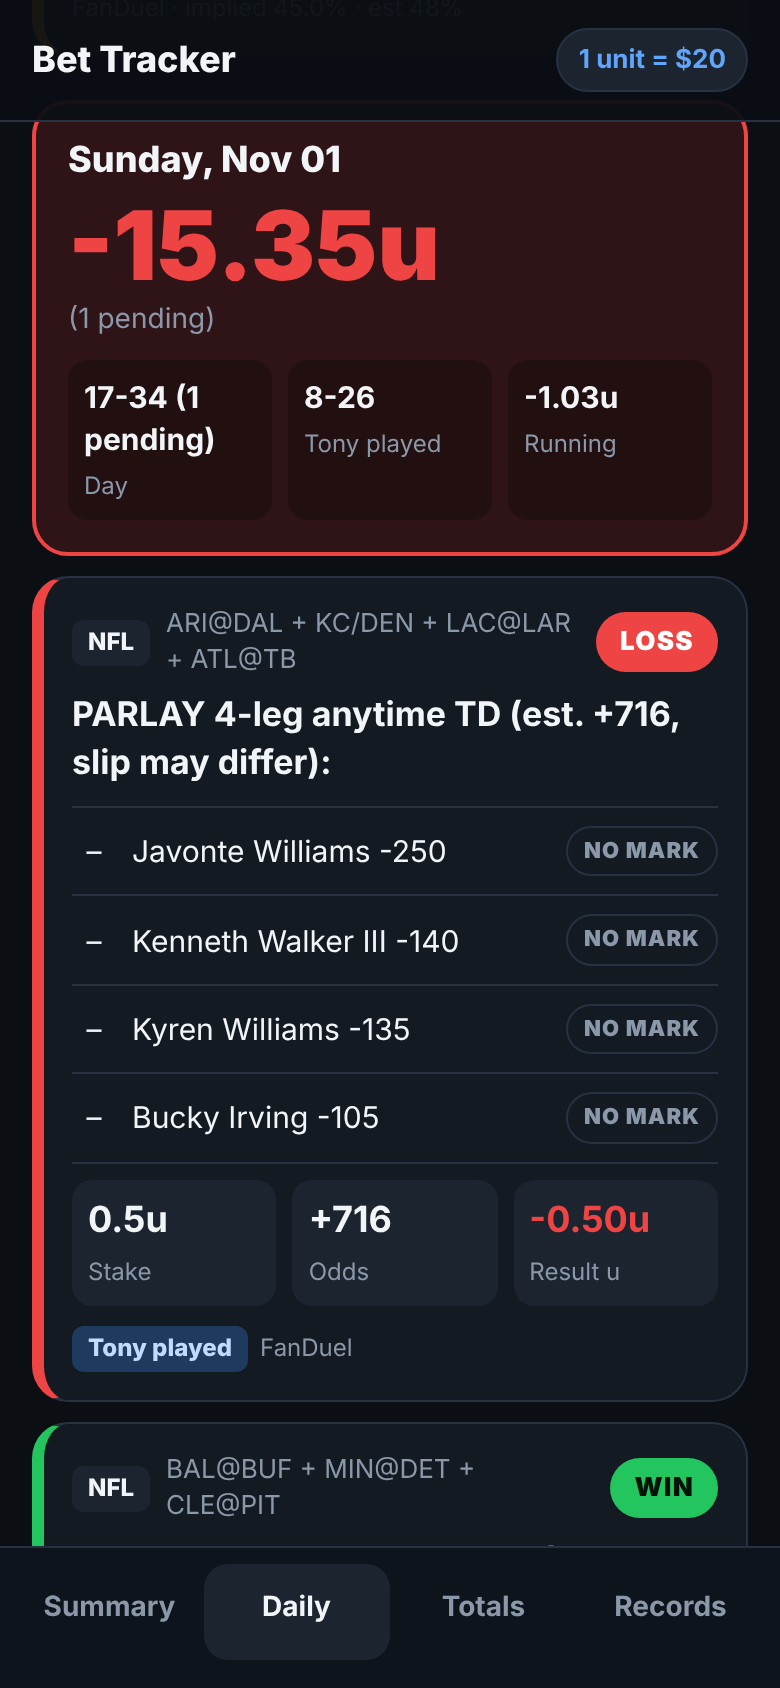
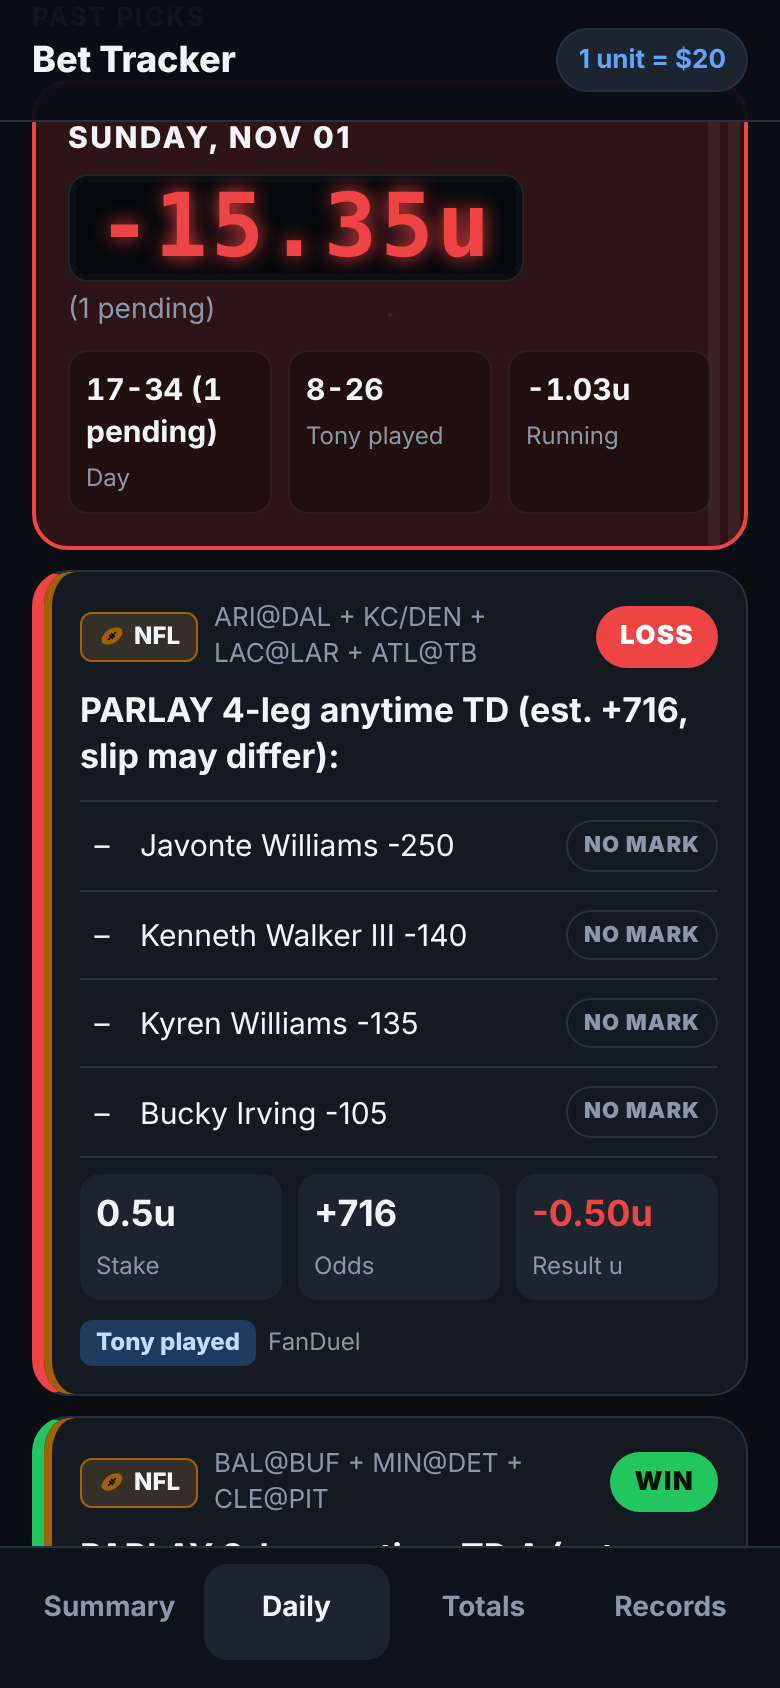
data: 2026-11-02 11:08

diff --git a/app.js b/app.js
@@ -5,6 +5,9 @@ const isNum=x=>typeof x==='number',fmt=x=>(x>=0?'+':'')+x.toFixed(2)+'u';
 const RES={W:['WIN','win'],L:['LOSS','loss'],void:['VOID','push'],P:['PUSH','push'],'':['PENDING','pend']};
 const LEG={hit:['WIN','win','✅'],miss:['LOSS','loss','❌'],pending:['PENDING','pend','⏳'],none:['NO MARK','none','–']};
 const chip=(l,c)=>`<span class="chip ${c}">${l}</span>`;
+const G={'fb':'<ellipse cx="12" cy="12" rx="10" ry="6" transform="rotate(-35 12 12)" fill="currentColor"/><path d="M9 15l6-6M10 11.5l2.5 2.5M11.5 10l2.5 2.5" stroke="#0B0F14" stroke-width="1.4" stroke-linecap="round"/>','puck':'<ellipse cx="12" cy="9" rx="9" ry="4" fill="currentColor"/><path d="M3 9v5c0 2.2 4 4 9 4s9-1.8 9-4V9c0 2.2-4 4-9 4S3 11.2 3 9z" fill="currentColor" opacity=".6"/>','base':'<circle cx="12" cy="12" r="9.5" fill="currentColor"/><path d="M7 4.5c2.5 2.5 2.5 12.5 0 15M17 4.5c-2.5 2.5-2.5 12.5 0 15" stroke="#B91C1C" stroke-width="1.4" fill="none"/>','bask':'<circle cx="12" cy="12" r="9.5" fill="currentColor"/><path d="M2.5 12h19M12 2.5v19M5.5 5.2c3 3 3 10.6 0 13.6M18.5 5.2c-3 3-3 10.6 0 13.6" stroke="#0B0F14" stroke-width="1.3" fill="none"/>','soc':'<circle cx="12" cy="12" r="9.5" fill="currentColor"/><path d="M12 8.2l3.6 2.6-1.4 4.2H9.8l-1.4-4.2z" fill="#0B0F14"/><path d="M12 8.2V3M15.6 10.8l4.6-1.6M14.2 15l2.8 4M9.8 15L7 19M8.4 10.8L3.8 9.2" stroke="#0B0F14" stroke-width="1.3"/>','multi':'<rect x="3" y="5" width="13" height="9" rx="2" fill="currentColor" opacity=".55"/><rect x="8" y="10" width="13" height="9" rx="2" fill="currentColor"/>','all':'<path d="M7 3h10v4a5 5 0 01-10 0zM5 4H3v2a3 3 0 003 3M19 4h2v2a3 3 0 01-3 3M10 13h4v3h-4zM8 18h8v3H8z" fill="currentColor"/>'};
+const SPK={'NFL':'fb','NCAAF':'fb','CFB':'fb','NHL':'puck','MLB':'base','NBA':'bask','WNBA':'bask','SOCCER':'soc','EPL':'soc','MLS':'soc','MULTI':'multi','LADDER':'multi','ALL':'all'};
+const ico=s=>`<svg class="ic" viewBox="0 0 24 24" aria-hidden="true">${G[SPK[String(s).toUpperCase()]||'multi']}</svg>`,scls=s=>'s-'+String(s).toUpperCase();
 let D;
 function ticket(t){const [lbl,c]=RES[t.result]||[E(t.result),'pend'];
  const legs=t.legs.length?`<ol class="legs">${t.legs.map(l=>{const [L,cc,m]=LEG[l.mark];return `<li class="leg ${cc}"><span class="mk">${m}</span><span class="lt">${E(l.text)}</span>${chip(L,cc)}</li>`}).join('')}</ol>`:'';
@@ -12,25 +15,28 @@ function ticket(t){const [lbl,c]=RES[t.result]||[E(t.result),'pend'];
  const meta=[['Stake',isNum(st)?st+'u':st?E(st):'—',''],['Odds',E(t.odds)||'—',''],['Result u',isNum(pr)?fmt(pr):'—',prc]];
  const extra=['implied','est'].filter(k=>t[k]).map(k=>`${k} ${E(t[k])}`).join(' · ');
  const tags=(t.tony_played==='Y'?'<span class="tag tp">Tony played</span>':'')+(t.favorite==='Y'?'<span class="tag fav">★ Favorite</span>':'');
- return `<article class="tk ${c}"><div class="tkh"><span class="sp">${E(t.sport)}</span><span class="gm">${E(t.game)}</span>${chip(lbl,c+' big')}</div>
+ return `<article class="tk ${c} ${scls(t.sport)}"><div class="tkh"><span class="sp ${scls(t.sport)}">${ico(t.sport)}${E(t.sport)}</span><span class="gm">${E(t.game)}</span>${chip(lbl,c+' big')}</div>
 <p class="pk">${E(t.title)}</p>${legs}<div class="meta">${meta.map(([k,v,cl])=>`<div class="${cl}"><b>${v}</b><i>${k}</i></div>`).join('')}</div>
 <div class="foot">${tags}<span class="bk">${E(t.book)}${extra?' · '+extra:''}</span></div></article>`}
 function banner(b){const p=b.split('|').map(s=>s.trim()),kv=[];let net=null;
  for(const s of p.slice(1)){const i=s.includes(':')?s.indexOf(':'):s.indexOf(' ');const k=s.slice(0,i).trim(),v=s.slice(i+1).trim();k==='Net'?net=v:kv.push([k,v])}
  const nv=net&&net.split(' ')[0],tn=nv?tone(nv):'neu';
- const big=net?`<div class="bn-net">${E(nv)}</div><div class="bn-sub">${E(net.slice(nv.length).trim()||'net units')}</div>`:'<div class="bn-net sm">no units</div><div class="bn-sub">before unit tracking</div>';
- return `<section class="bn ${tn}"><div class="bn-d">${E(p[0])}</div>${big}<div class="bn-st">${kv.map(([k,v])=>`<div><b>${E(v)}</b><i>${E(k)}</i></div>`).join('')}</div></section>`}
+ const big=net?`<div class="bn-net sb">${E(nv)}</div><div class="bn-sub">${E(net.slice(nv.length).trim()||'net units')}</div>`:'<div class="bn-net sm">no units</div><div class="bn-sub">before unit tracking</div>';
+ return `<section class="bn sbd ${tn}"><div class="bn-d">${E(p[0])}</div>${big}<div class="bn-st">${kv.map(([k,v])=>`<div><b>${E(v)}</b><i>${E(k)}</i></div>`).join('')}</div></section>`}
 const ucard=(u,cls='')=>`<div class="uc ${tone(u.net)} ${cls}"><div class="ul">${E(u.period)}</div><div class="uv">${E(u.net)}</div><div class="us">${E(u.settled)} settled · ${E(u.pending)} pending</div></div>`;
-function rtable(title,head,rs,foot=''){return `<div class="rt"><h3>${E(title)}</h3>${rs.map(r=>`<div class="rg"><div class="rn">${E(r[0])}</div><div class="rcs">${head.map((h,i)=>`<div class="rc${h==='All'?' all':''}"><i>${E(h)}</i><b>${E(r[i+1])}</b></div>`).join('')}</div></div>`).join('')}${foot}</div>`}
-function renderDays(){const f=$('#filter').value,q=$('#q').value.trim().toLowerCase();
- const html=D.days.map(d=>{const ts=d.tickets.filter(t=>(f==='all'||f==='played'&&t.tony_played==='Y'||f==='fav'&&t.favorite==='Y'||f==='pending'&&!t.result)&&(!q||(t.pick+' '+t.game+' '+t.sport).toLowerCase().includes(q)));
-  if(!ts.length&&(f!=='all'||q))return'';return `<div class="day" id="d${d.date}">${banner(d.banner)}${ts.map(ticket).join('')}</div>`}).join('');
+function rtable(title,head,rs,foot=''){return `<div class="rt"><h3>${E(title)}</h3>${rs.map(r=>`<div class="rg"><div class="rn">${E(r[0])}</div><div class="rcs">${head.map((h,i)=>`<div class="rc${h==='All'?' all':''} ${scls(h)}"><i>${h?ico(h):''}${E(h)}</i><b>${E(r[i+1])}</b></div>`).join('')}</div></div>`).join('')}${foot}</div>`}
+const todayDate=()=>{const p=new Intl.DateTimeFormat('en-CA',{timeZone:'America/Phoenix'}).format(new Date());return D.days.some(d=>d.date===p)?p:D.days[0].date};
+function renderDays(){const td=todayDate();const f=$('#filter').value,q=$('#q').value.trim().toLowerCase();
+ const one=d=>{const ts=d.tickets.filter(t=>(f==='all'||f==='played'&&t.tony_played==='Y'||f==='fav'&&t.favorite==='Y'||f==='pending'&&!t.result)&&(!q||(t.pick+' '+t.game+' '+t.sport).toLowerCase().includes(q)));
+  if(!ts.length&&(f!=='all'||q))return'';return `<div class="day" id="d${d.date}">${banner(d.banner)}${ts.map(ticket).join('')}</div>`};
+ const t=D.days.filter(d=>d.date===td).map(one).join(''),p=D.days.filter(d=>d.date!==td).map(one).join('');
+ const html=(t?`<h2 class="h" id="today">Today</h2>${t}`:'')+(p?`<h2 class="h" id="past">Past picks</h2>${p}`:'');
  $('#days').innerHTML=html||'<p class="empty">No tickets match.</p>'}
 function render(){const sports=D.record_header.slice(1),U=D.units,gt=U.find(u=>u.period==='Grand total');
  const months=U.filter(u=>!/^(Year|Grand)/.test(u.period)),years=U.filter(u=>u.period.startsWith('Year'));
  $('#pill').textContent=D.note;
  $('#summary-body').innerHTML=`<div class="note">${E(D.note)}</div><div class="hero ${tone(gt.net)}"><div class="ul">Grand total · ${E(D.units_label)}</div><div class="hv">${E(gt.net)}</div><div class="us">${gt.settled} settled · ${gt.pending} pending</div></div>
-<div class="two">${ucard(months[0])}${ucard(years[0])}</div>${rtable('Overall record',sports,D.records.slice(0,1))}<a class="cta" href="#d${D.days[0].date}">Latest day →</a>${banner(D.days[0].banner)}`;
+<div class="two">${ucard(months[0])}${ucard(years[0])}</div>${rtable('Overall record',sports,D.records.slice(0,1))}<h2 class="h">Today</h2>${banner(D.days.find(d=>d.date===todayDate()).banner)}<a class="cta" href="#today">Today's picks →</a><a class="cta" href="#past">Past picks →</a>`;
  $('#jump').innerHTML='<option value="">Jump to date</option>'+D.days.map(d=>`<option value="${d.date}">${E(d.label)}</option>`).join('');
  renderDays();$('#legend').textContent=D.legend;
  $('#totals-body').innerHTML='<h2 class="h">Grand total</h2>'+ucard(gt,'xl')+'<h2 class="h">Years</h2>'+years.map(y=>ucard(y,'xl')).join('')+'<h2 class="h">Months</h2>'+months.map(m=>ucard(m)).join('')+`<p class="legend">${E(D.units_label)}.</p>`;

diff --git a/app.css b/app.css
@@ -1,4 +1,4 @@
-/* Design: Graphic, /workspace/shared/bet-tracker/design/style.css (verbatim). All styling lives in this file. */
+/* Design: Graphic v2 sports theme, /workspace/shared/bet-tracker/design/style.css (verbatim). All styling lives in this file. */
 :root{--bg:#0B0F14;--sf:#141A22;--sf2:#1C2430;--ln:#263142;--tx:#F2F5F8;--mu:#8B98A9;--win:#22C55E;--winbg:#0F2A1B;--loss:#EF4444;--lossbg:#2E1416;--pend:#F59E0B;--pendbg:#2E2110;--push:#94A3B8;--pushbg:#1E2633;--acc:#60A5FA}
 *{box-sizing:border-box;margin:0;padding:0}
 body{background:var(--bg);color:var(--tx);font:16px/1.4 Inter,-apple-system,"SF Pro Text",Roboto,system-ui,sans-serif;padding-bottom:84px}
@@ -39,6 +39,21 @@ body:has(#daily:target) .tabs a[href="#daily"],body:has(#daily :target) .tabs a[
 .rt{padding:14px;margin-bottom:12px}.rt h3{font-size:18px;margin-bottom:6px}.rg{padding:10px 0;border-top:1px solid var(--ln)}.rn{font-weight:800;margin-bottom:8px}
 .rcs{display:grid;grid-template-columns:repeat(4,1fr);gap:6px}.rc{background:var(--sf2);border-radius:10px;padding:6px 8px}.rc b{display:block;font-size:16px;color:var(--tx)!important}.rc.all{background:#1E3A5F}
 .rfoot{display:flex;flex-wrap:wrap;gap:8px;align-items:baseline;border-top:1px solid var(--ln);padding-top:10px;font-size:14px;color:var(--mu)}.rfoot b{font-size:22px}.rfoot.neg b{color:var(--loss)}.rfoot em{font-style:normal;color:var(--pend)}
+/* ---- v2 sports theme ---- */
+:root{--s-fb:#A16207;--s-ncaa:#EA580C;--s-nhl:#38BDF8;--s-mlb:#E11D48;--s-nba:#F97316;--s-wnba:#FB923C;--s-soc:#10B981;--s-multi:#A78BFA}
+.s-NFL{--spc:var(--s-fb)}.s-NCAAF,.s-CFB{--spc:var(--s-ncaa)}.s-NHL{--spc:var(--s-nhl)}.s-MLB{--spc:var(--s-mlb)}.s-NBA{--spc:var(--s-nba)}.s-WNBA{--spc:var(--s-wnba)}.s-SOCCER,.s-EPL,.s-MLS{--spc:var(--s-soc)}.s-MULTI,.s-LADDER{--spc:var(--s-multi)}.s-ALL{--spc:#FCD34D}
+.ic{width:14px;height:14px;flex:none;vertical-align:-2px;margin-right:4px}
+.sp{display:inline-flex;align-items:center;color:var(--tx);border:1px solid var(--spc,var(--ln));background:color-mix(in srgb,var(--spc,#1C2430) 18%,var(--sf2))}.sp .ic{color:var(--spc)}
+.tk{box-shadow:inset 4px 0 0 var(--spc,transparent);padding-left:18px}
+.rc i{display:flex;align-items:center;white-space:nowrap}.rc .ic{width:12px;height:12px;margin-right:3px;color:var(--spc,var(--mu))}.rc{border-top:2px solid var(--spc,transparent)}
+.hero{position:relative;overflow:hidden;background:linear-gradient(90deg,transparent 49.6%,rgba(255,255,255,.05) 49.6% 50.4%,transparent 50.4%),radial-gradient(circle at 50% 50%,transparent 58px,rgba(255,255,255,.05) 59px 60px,transparent 61px),repeating-linear-gradient(90deg,rgba(34,197,94,.045) 0 39px,rgba(34,197,94,0) 39px 78px),var(--sf)}
+.hero>*{position:relative}
+.sbd{position:relative;overflow:hidden;background-image:radial-gradient(rgba(255,255,255,.07) 1px,transparent 1.4px),repeating-linear-gradient(90deg,transparent 0 calc(100% - 18px),rgba(255,255,255,.06) calc(100% - 18px) calc(100% - 12px),transparent calc(100% - 12px) calc(100% - 8px),rgba(255,255,255,.06) calc(100% - 8px) calc(100% - 2px),transparent calc(100% - 2px))!important;background-size:5px 5px,100% 100%}
+.bn-d{text-transform:uppercase;letter-spacing:.08em;font-size:15px}
+.bn-net.sb{display:inline-block;font-family:"DejaVu Sans Mono","SF Mono",Menlo,Consolas,monospace;font-variant-numeric:tabular-nums;font-size:44px;letter-spacing:.04em;background:#05080B;border:1px solid rgba(255,255,255,.12);border-radius:10px;padding:2px 14px;margin:8px 0 4px;text-shadow:0 0 10px currentColor;box-shadow:inset 0 0 0 3px #0B0F14}
+.bn-net.sm.sb{font-size:22px;text-shadow:none}
+.bn-st div{border:1px solid rgba(255,255,255,.06)}.bn-st b{font-variant-numeric:tabular-nums}
+
 /* App additions (design tokens only): filter / jump controls */
 .filters{display:grid;grid-template-columns:1fr 1fr;gap:8px;margin-bottom:8px}.filters input{grid-column:1/-1}
 .filters select,.filters input{min-height:44px;font:inherit;font-size:15px;background:var(--sf);color:var(--tx);border:1px solid var(--ln);border-radius:10px;padding:0 10px}

diff --git a/sw.js b/sw.js
@@ -1,4 +1,4 @@
-const VERSION='v2-design'; // bump per app release
+const VERSION='v3-sports'; // bump per app release
 const C='bet-tracker-'+VERSION, SHELL=['./','index.html','app.css','app.js','manifest.webmanifest','icon.svg'];
 self.addEventListener('install',e=>{e.waitUntil(caches.open(C).then(c=>c.addAll(SHELL)));self.skipWaiting()});
 self.addEventListener('activate',e=>{e.waitUntil(caches.keys().then(k=>Promise.all(k.filter(n=>n!==C).map(n=>caches.delete(n)))));self.clients.claim()});

diff --git a/test_app.py b/test_app.py
@@ -20,7 +20,7 @@ with sync_playwright() as p:
   pg.goto('http://localhost:8767/#daily');pg.wait_for_timeout(500)
   chk('tickets',pg.locator('#daily .tk').count(),len(tix))
   chk('days',pg.locator('#daily .day').count(),len(banners))
-  labs=pg.locator('#daily .bn-d').all_inner_texts();chk('newest first',labs[0],banners[0].split('|')[0].strip())
+  labs=[x.title().replace('Nov 0','Nov 0').replace(' Of ',' of ') for x in pg.locator('#daily .bn-d').all_text_contents()];chk('newest first',labs[0],banners[0].split('|')[0].strip())
   nn=pg.locator('#daily .day .bn-net').all_inner_texts();web={l:(n if n!='no units' else None) for l,n in zip(labs,nn)}
   chk('daily net units',web,nets)
   legs=[l for r in tix for l in str(r[3]).split('\n')[1:]]
@@ -28,8 +28,10 @@ with sync_playwright() as p:
   chk('VOID tickets',pg.locator('#daily .tk .chip.big', has_text='VOID').count(),sum(1 for r in tix if r[8]=='void'))
   chk('stake? tiles',pg.locator('#daily .meta div:first-child b',has_text='stake?').count(),sum(1 for r in tix if r[11]=='stake?'))
   chk('$ only in note',pg.locator('body').inner_text().count('$'),pg.locator('body').inner_text().count('1 unit = $20'))
-  pg.screenshot(path='screenshots/daily-nov02.png')
-  pg.goto('http://localhost:8767/#d2026-11-01');pg.wait_for_timeout(500);pg.screenshot(path='screenshots/daily-nov01-1.png')
+  chk('Today = newest day only',pg.locator('#today + .day .bn-d').inner_text(),banners[0].split('|')[0].strip().upper())
+  chk('Past picks heading',pg.locator('#past').count(),1)
+  pg.screenshot(path='screenshots/daily-1.png')
+  pg.goto('http://localhost:8767/#past');pg.wait_for_timeout(500);pg.screenshot(path='screenshots/daily-nov01-1.png')
   pg.goto('http://localhost:8767/');pg.wait_for_timeout(500);st=pg.locator('#summary').inner_text()
   chk('grand total + note on summary',units['Grand total'] in st and '1 unit = $20' in st,True);pg.screenshot(path='screenshots/summary-1.png')
   pg.click('.tabs a[href="#totals"]');ut=pg.locator('#totals').inner_text()
